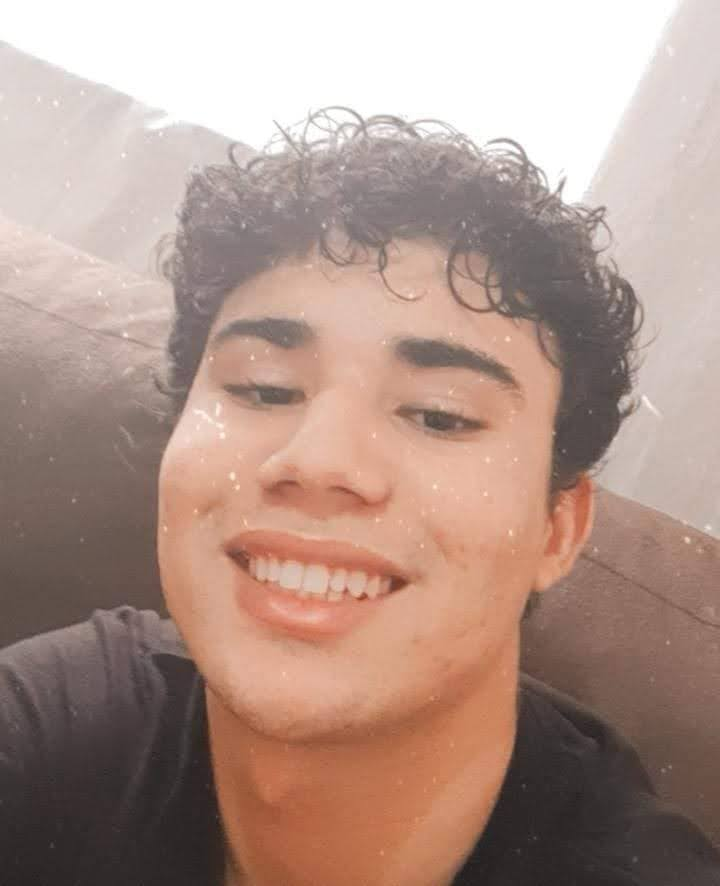
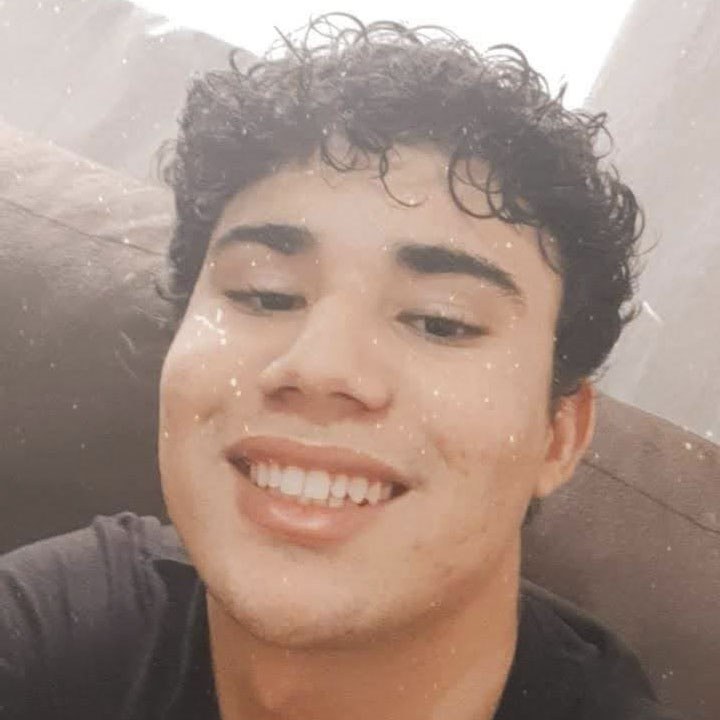
Menu lateral

diff --git a/Portifolio/css/style.css b/Portifolio/css/style.css
@@ -3,3 +3,49 @@
     padding: 0;
     box-sizing: border-box;
 }
+
+html, body{
+    height: 100%;
+}
+
+.sidebar{
+    width: 15%;
+    height: 100%;
+    position: fixed;
+    background-color: rgb(212, 62, 226);
+}
+
+.sidebar-pos{
+    position: absolute;    
+    margin-top: 25%;    
+}
+
+.img{
+    text-align: center;
+}
+
+.img img{
+    width: 70%;
+    border: 5px solid rgb(231, 119, 241);
+    border-radius: 50%;
+}
+
+.menu{
+    margin: 20px 0;
+    text-align: center;
+    position: relative;
+    margin-left: -20px;
+}
+
+.menu a{
+    color: white;
+    opacity: 0.75;
+    font-size: 18px;
+    display: block;
+    margin-bottom: 15px;
+    text-decoration: none;
+}
+
+.menu a.selected{
+    opacity: 1;
+}

diff --git a/Portifolio/index.html b/Portifolio/index.html
@@ -8,6 +8,22 @@
     <link href="https://cdnjs.cloudflare.com/ajax/libs/font-awesome/5.13.1/css/all.min.css" rel="stylesheet">
 </head>
 <body>
-    
+    <div class="parent">
+        <div class="sidebar">
+            <div class="sidebar-pos">
+                <div class="img">
+                    <img src="foto.jpg" alt="Foto">
+                </div>
+                <div class="menu">
+                    <a href="#" class="selected">Sobre</a>
+                    <a href="#">Experiência</a>
+                    <a href="#">Educação</a>
+                </div>
+            </div>
+        </div><!--sidebar-->
+        <div class="content">
+
+        </div><!--content-->
+    </div><!--parent-->
 </body>
 </html>
